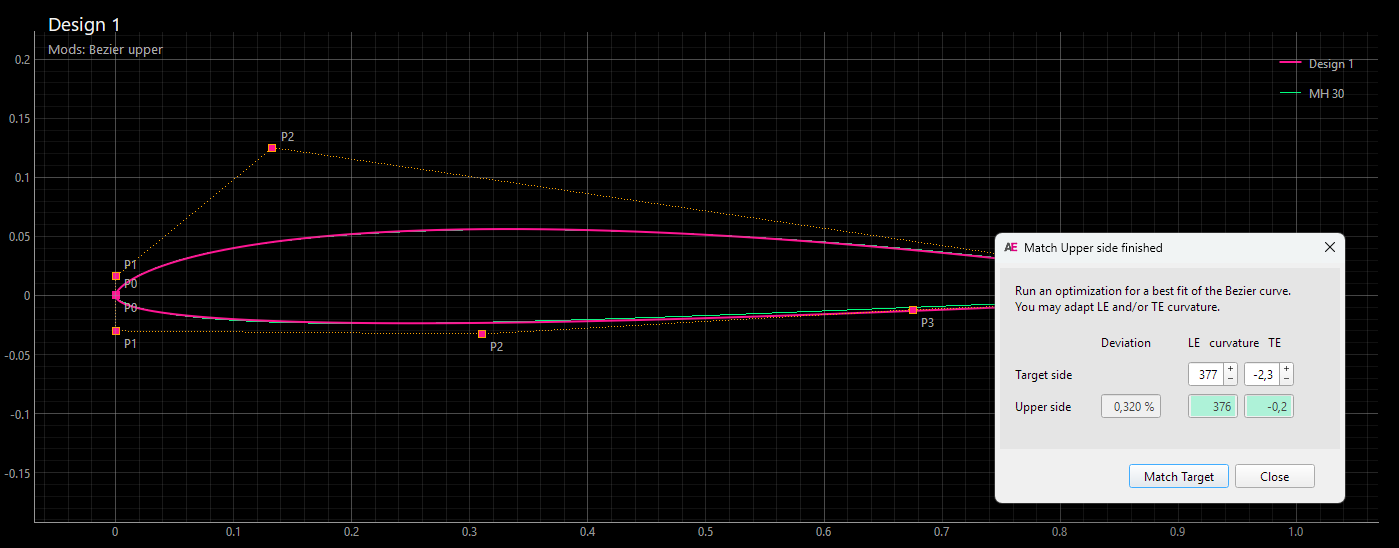
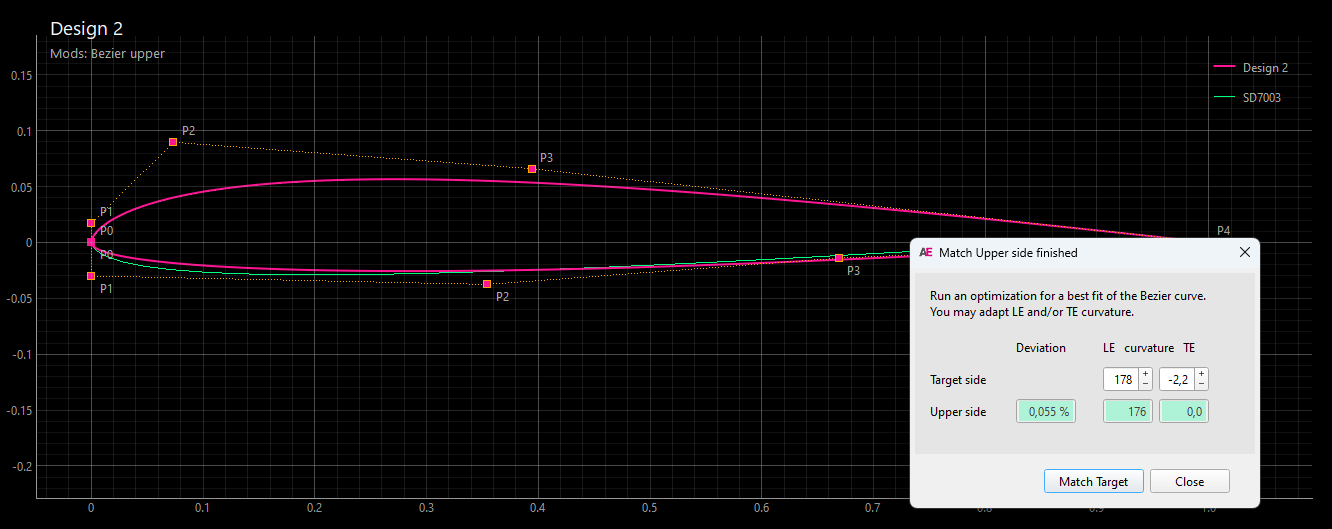
readme

diff --git a/README4.md b/README4.md
@@ -19,7 +19,7 @@ The **AirfoilEditor** serves as a fast airfoil viewer and an advanced geometry e
 * Generate airfoil replicas using Bezier curves.
 
 #### Optimize
-* User Interface for Xoptfoil2
+* User Interface of [Xoptfoil2](https://github.com/jxjo/Xoptfoil2)
 * Graphical definition of polar based objectives
 * View results while optimizing
 
@@ -27,7 +27,7 @@ The app was initially developed to address artefacts found in other tools like X
 The app, developed in Python with the Qt UI framework, runs on Windows, Linux, and MacOS. Linux and MacOS users are required to compile the underlying programs for polar viewing and airfoil optimization - see 'Installation' for details.
 
 
-![AE](images/AirfoilEditor_App.png "AirfoilEditor App")
+![AE](images/AirfoilEditor_App_dark.png "AirfoilEditor App")
 
 # Basic Concepts
 
@@ -138,3 +138,41 @@ One of the possible modifications is to set a trailing edge flap – either perm
 ![AE](images/set_flap.png "Setting flap")
 
 Remark: As a flap may not be set on an already ‘flapped’ airfoil, the app remembers the initial unflapped design airfoil. This enables multiple sequential flap settings to be applied during a design session.
+
+## Bezier based Airfoils
+
+Bezier-based airfoils can also be adjusted in ‘Modify Mode’. As the geometry of such an airfoil is defined by two Bezier curves for the upper and lower side, the typical geometry parameters like ‘thickness’ cannot be changed directly. 
+
+Instead, the control points of the Bezier curves can be moved with mouse directly in the diagram.
+Each modification results in a new 'Design' with newly generated polars. This allows for observation of how adjustments to the Bezier curve impact the polar.
+
+The optional match function fits the Bezier curve to an existing airfoil as accurately as possible. 
+
+![AE](images/match_bezier.png)
+
+
+# 3. Optimization Mode
+
+In ‘Optimization Mode’, the **AirfoilEditor** serves as a wrapper for [Xoptfoil2](https://github.com/jxjo/Xoptfoil2).
+
+Xoptfoil2 is a particle swarm based airfoil optimizer which supports different ‘shaping methods’ to modify the airfoil during optimization: 
+
+*	Hicks-Henne shape functions
+*	Bezier curve defining the shape
+*	Geometry parameters like maximum thickness and its position
+
+The **AirfoilEditor** covers all steps needed for airfoil optimization with Xoptfoil2: 
+
+*	Define an optimization case with the objectives and boundary conditions
+*	Run, control and watch an optimization  
+*	Analyse the results 
+*	Improve the specifications and re-run
+
+Compared to manual editing the input file of Xoptfoil2, the user interface greatly streamlines the process of defining and entering operating points being objectives of the optimization.
+
+Multiple versions of an optimization case can be created, making it easier to finally select the best version  at the end of the optimization sessions.
+
+> [!IMPORTANT]
+> Before you start your own airfoil optimizations with the **AirfoilEditor**, you should fully understand the key concepts of Xoptfoil2 and the special terms like ‘seed airfoil’ or ‘operating point’. 
+> Please read carefully the chapters [Getting Started](https://jxjo.github.io/Xoptfoil2/docs/getting_started) and [Airfoil Optimization](https://jxjo.github.io/Xoptfoil2/docs/airfoil_optimization) of the Xoptfoil2  documentation. 
+>You will find the example of ‘Getting Started’ is ready to go in the AirfoilEditor making it easy to watch and modify your first optimization. 
